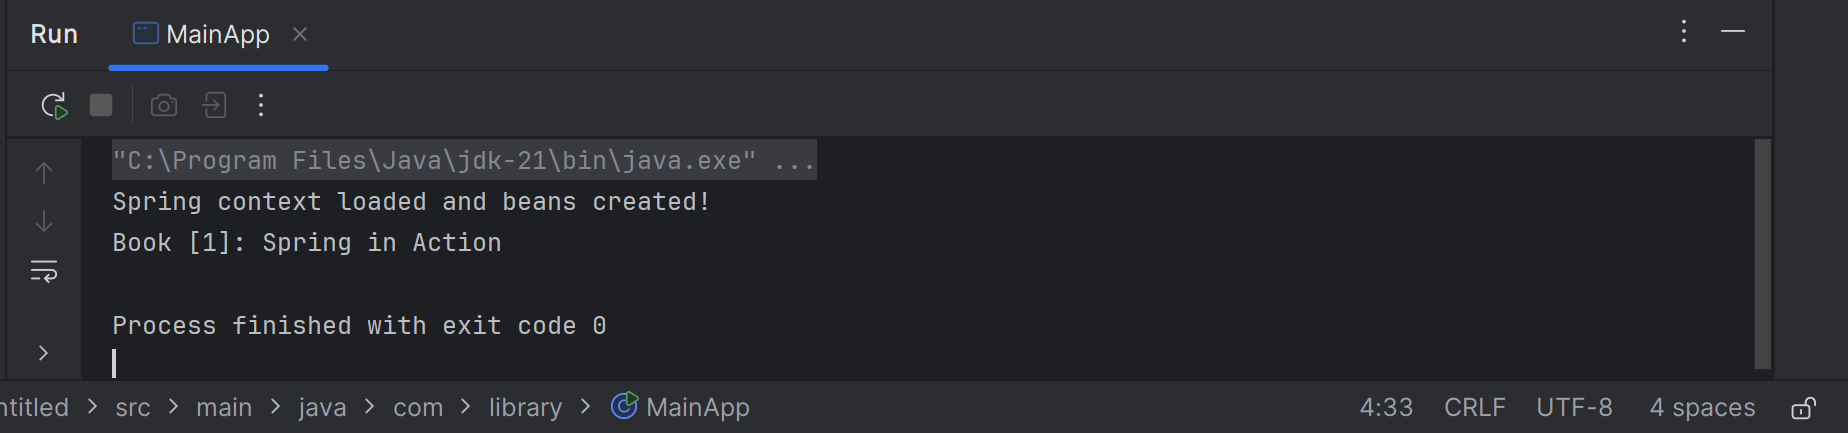
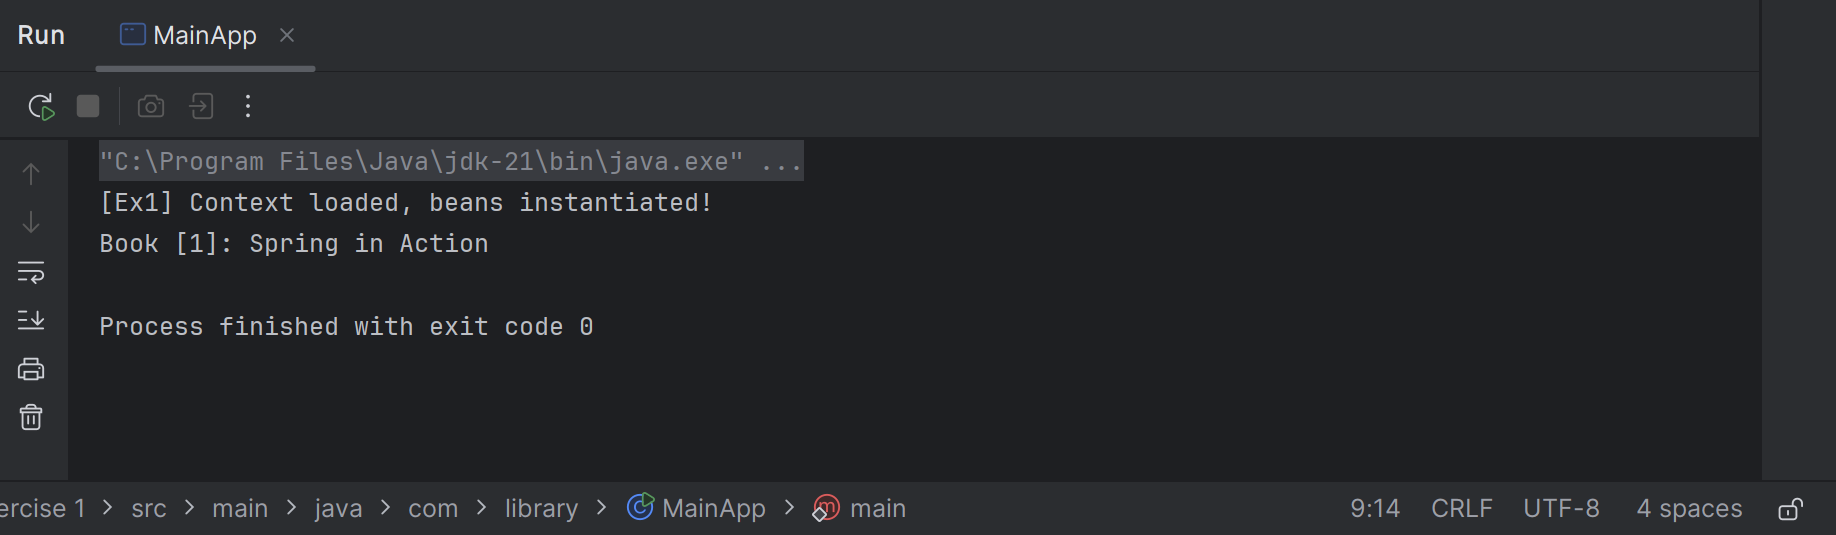
Fix: Exercise 1 of Spring Core and Maven

diff --git a/Week 3/Spring Core and Maven/Exercise 1/src/main/java/com/library/MainApp.java b/Week 3/Spring Core and Maven/Exercise 1/src/main/java/com/library/MainApp.java
@@ -1,15 +1,20 @@
 package com.library;
 
+import com.library.repository.BookRepository;
 import com.library.service.BookService;
 import org.springframework.context.ApplicationContext;
 import org.springframework.context.support.ClassPathXmlApplicationContext;
 
 public class MainApp {
     public static void main(String[] args) {
-        ApplicationContext context = new ClassPathXmlApplicationContext("applicationContext.xml");
+        ApplicationContext ctx = new ClassPathXmlApplicationContext("applicationContext.xml");
+        System.out.println("[Ex1] Context loaded, beans instantiated!");
 
-        BookService service = context.getBean("bookService", BookService.class);
-        System.out.println("Spring context loaded and beans created!");
-        service.printBook(1);
+        // manually wire dependency in Java
+        BookRepository repo = ctx.getBean("bookRepository", BookRepository.class);
+        BookService    svc  = ctx.getBean("bookService",    BookService.class);
+        svc.setRepository(repo);
+
+        svc.printBook(1);
     }
 }

diff --git a/Week 3/Spring Core and Maven/Exercise 1/src/main/java/com/library/service/BookService.java b/Week 3/Spring Core and Maven/Exercise 1/src/main/java/com/library/service/BookService.java
@@ -5,13 +5,11 @@ import com.library.repository.BookRepository;
 public class BookService {
     private BookRepository repository;
 
-    // Setter for Spring to inject dependency
     public void setRepository(BookRepository repository) {
         this.repository = repository;
     }
 
     public void printBook(int id) {
-        String title = repository.getBookTitleById(id);
-        System.out.println("Book [" + id + "]: " + title);
+        System.out.println("Book [" + id + "]: " + repository.getBookTitleById(id));
     }
 }

diff --git a/Week 3/Spring Core and Maven/Exercise 1/src/main/java/com/library/repository/BookRepository.java b/Week 3/Spring Core and Maven/Exercise 1/src/main/java/com/library/repository/BookRepository.java
@@ -2,7 +2,6 @@ package com.library.repository;
 
 public class BookRepository {
     public String getBookTitleById(int id) {
-        // Just return a dummy book title
         return "Spring in Action";
     }
 }
